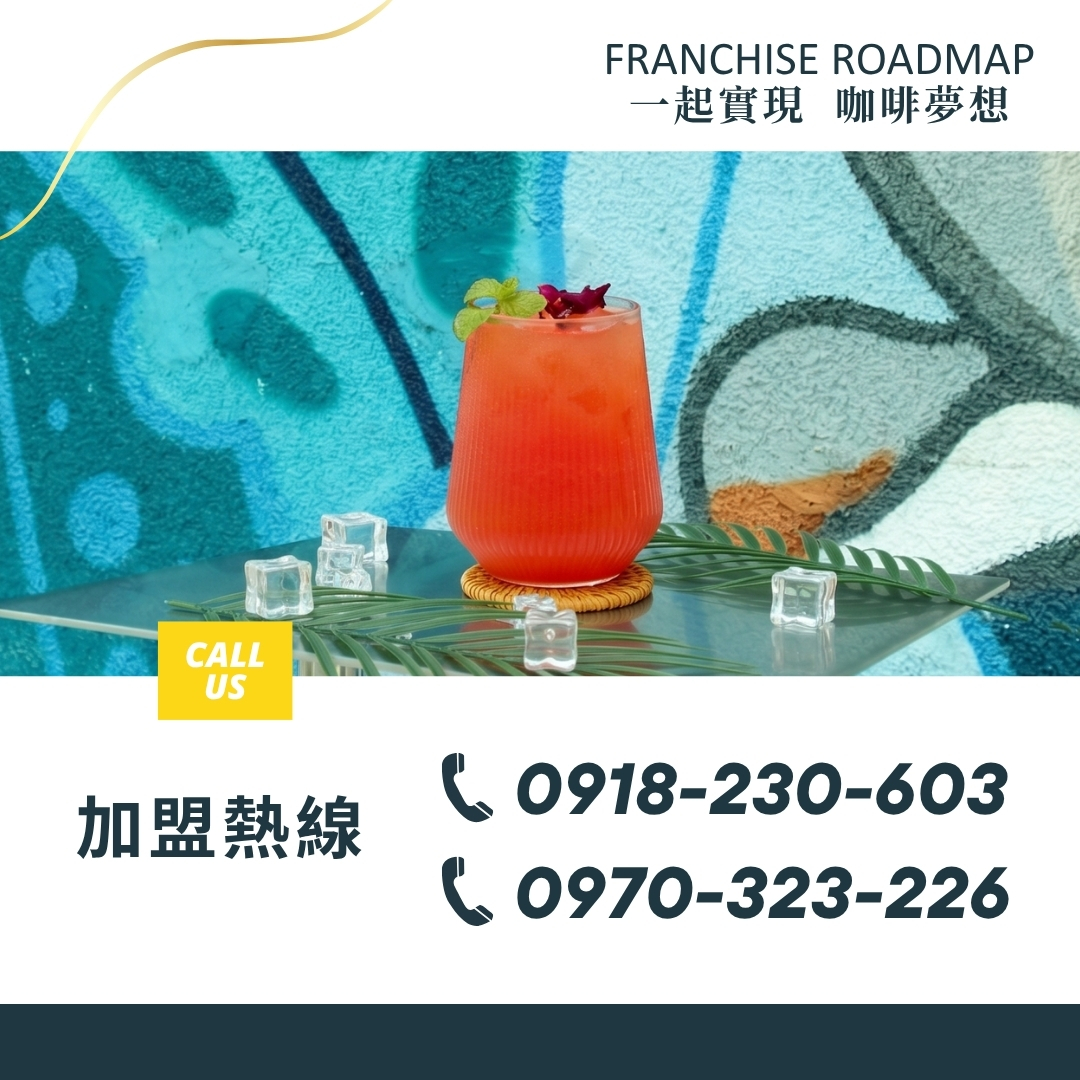
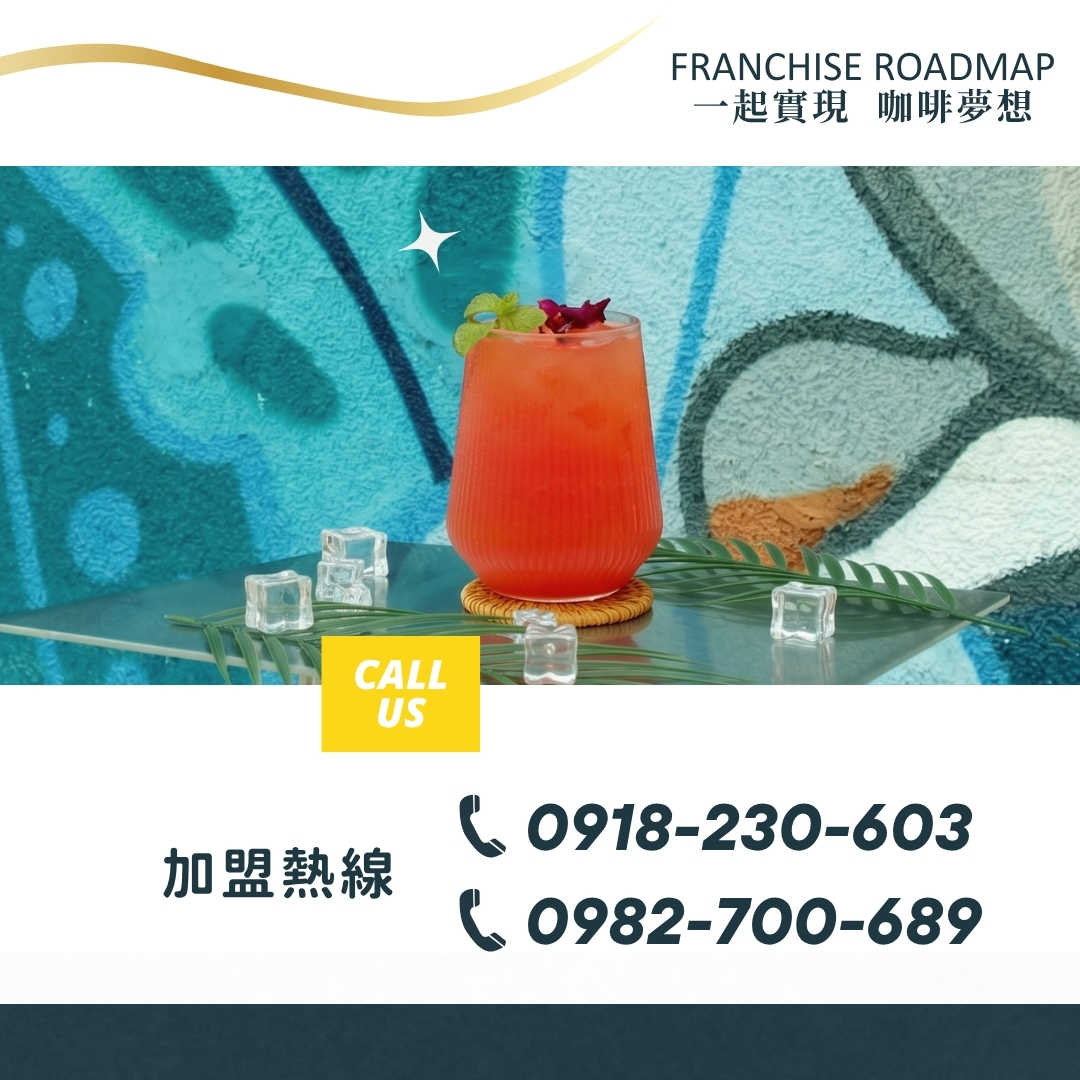
Update franchise hotline image and contact number

diff --git a/franchise.html b/franchise.html
@@ -1144,7 +1144,7 @@ height="0" width="0" style="display:none;visibility:hidden"></iframe></noscript>
 
         <section class="member-v3-section" id="fh-join-cta" style="padding-bottom:30px;">
             <div class="member-v3-container member-v3-join">
-                <div class="member-v3-join-photo member-v3-reveal" style="aspect-ratio:1/1;"><img src="franchise-hotline.jpg" alt="同齊咖吡加盟熱線 0918-230-603 / 0970-323-226"></div>
+                <div class="member-v3-join-photo member-v3-reveal" style="aspect-ratio:1/1;"><img src="franchise-hotline.jpg?v=20261028" alt="同齊咖吡加盟熱線 0918-230-603 / 0982-700-689"></div>
                 <div class="member-v3-reveal">
                     <span class="member-v3-kicker">JOIN TANG TSE</span>
                     <h2 style="font-family:var(--font-serif);font-size:clamp(1.9rem,3vw,2.6rem);font-weight:700;line-height:1.4;margin:0">準備好了嗎？<br>一起同齊吧</h2>
